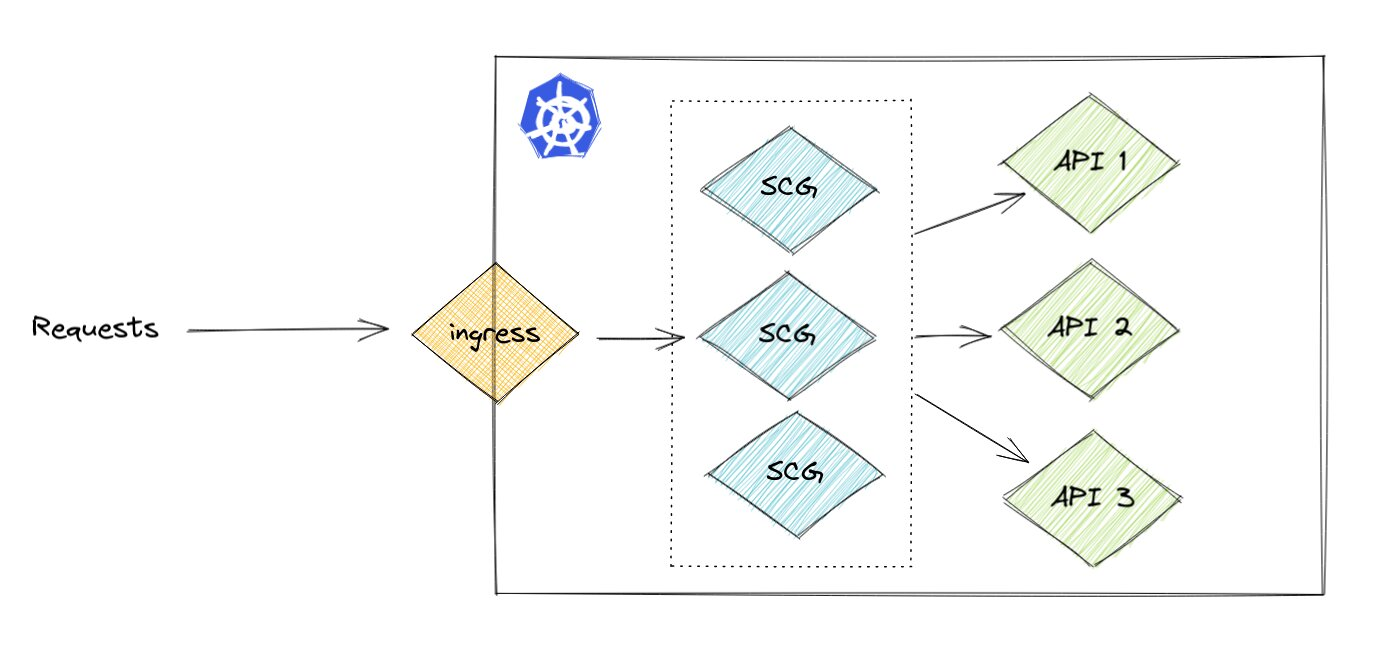
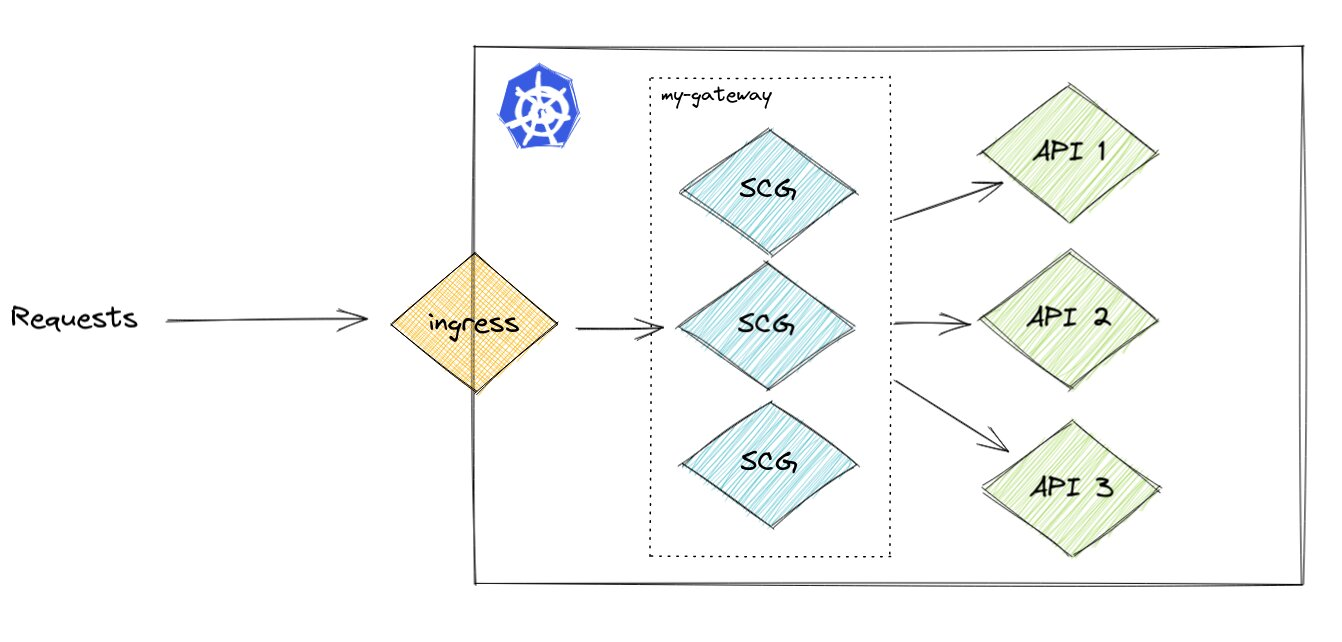
add pic for define instance

diff --git a/workshop/content/exercises/define-gateway-instance.md b/workshop/content/exercises/define-gateway-instance.md
@@ -1,4 +1,8 @@
-To start, there will be no springcloudgateways (scg), pods, or stateful sets in the session.
+To start, there will be no springcloudgateways (scg), pods, or stateful sets in the session. We'll use the Kubernetes API to instantiate an image.
+
+![SCG4K8S](images/define-scg1.jpg)
+
+No SpringCloudGateway, no pods, no persistent volume claims.
 
 ```execute-1
 kubectl get scg,statefulsets,pods,pvc
